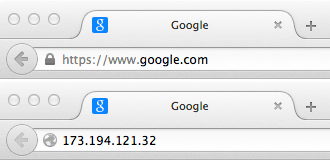
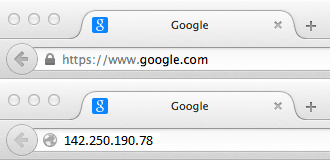
Updating IP address value of google.com (#9360)
* Updating IP address value of google.com

142.250.190.78 is the correct IP address for google.com.

* Add files via upload

* Update image having incorrect IP address value.

Changed region(s): [[0.1818, 0.8438, 0.4848, 0.9062]]

diff --git a/files/en-us/learn/common_questions/how_does_the_internet_work/index.html b/files/en-us/learn/common_questions/how_does_the_internet_work/index.html
@@ -82,7 +82,7 @@ tags:
 
 <p>If you want to send a message to a computer, you have to specify which one. Thus any computer linked to a network has a unique address that identifies it, called an "IP address" (where IP stands for <em>Internet Protocol</em>). It's an address made of a series of four numbers separated by dots, for example: <code>192.168.2.10</code>.</p>
 
-<p>That's perfectly fine for computers, but we human beings have a hard time remembering that sort of address. To make things easier, we can alias an IP address with a human readable name called a <em>domain name</em>. For example (at the time of writing; IP addresses can change) <code>google.com</code> is the domain name used on top of the IP address <code>173.194.121.32</code>. So using the domain name is the easiest way for us to reach a computer over the Internet.</p>
+<p>That's perfectly fine for computers, but we human beings have a hard time remembering that sort of address. To make things easier, we can alias an IP address with a human readable name called a <em>domain name</em>. For example (at the time of writing; IP addresses can change) <code>google.com</code> is the domain name used on top of the IP address <code>142.250.190.78</code>. So using the domain name is the easiest way for us to reach a computer over the Internet.</p>
 
 <p><img alt="Show how a domain name can alias an IP address" src="dns-ip.png"></p>
 
